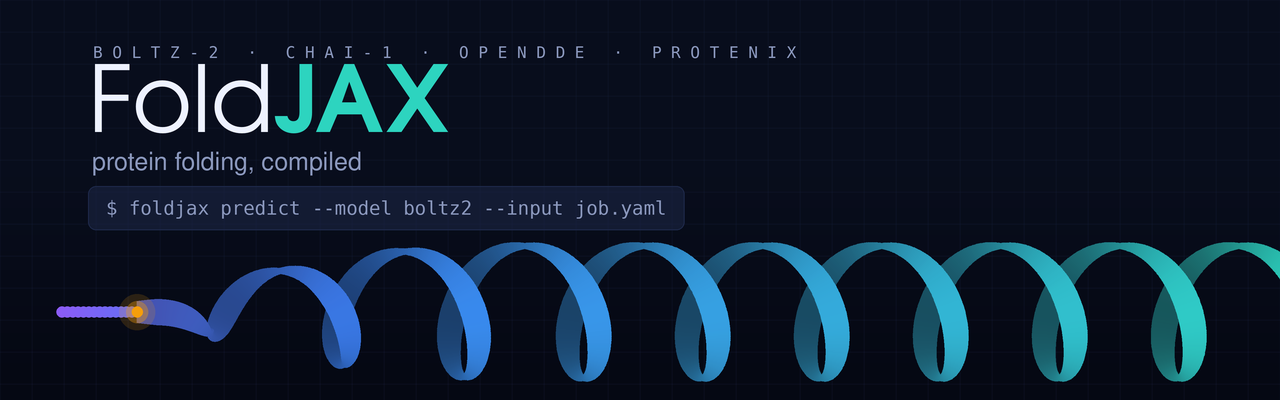
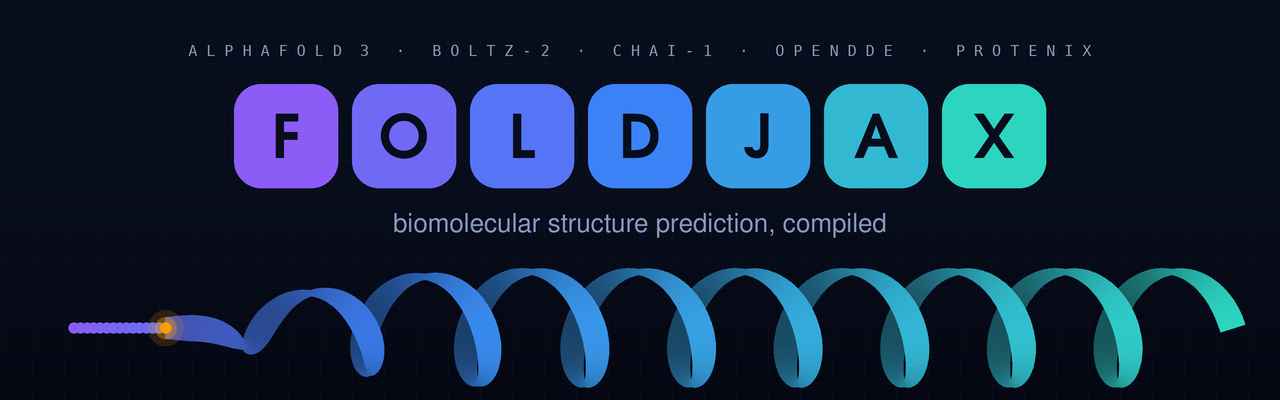
docs: set the name in JAX's own tile style, and bring the README up to date
The banner wordmark was type on a background. It is now one rounded tile per
letter, the way JAX writes its own name — this is a JAX project before it is
anything else — with the same violet/azure/teal ramp running across the tiles
that runs through the chain below them, so the mark and the graphic read as one
object. Letters are knocked out to the page colour rather than painted, which is
what makes a tile read as a tile, and each is centred on its own ink instead of
its advance width, because centring O and X on the box leaves them visibly off
axis from each other. The helix now finishes inside the frame; a turn clipped by
the right edge read as a rendering accident rather than the end of a coil.

README catches up with what the code does:

- Five models, not four. AlphaFold 3 takes the same job file as the rest; it is
  driven rather than carried because its parameters are not redistributable.
- The sampling table gains an alphafold3 column, and says why `--num-steps` is
  refused there rather than ignored: it has no such control.
- Chai can be given a pinned MSA now, so the claim that it cannot is gone, and
  the reason it matters is stated — an alignment that binds four models but not
  the fifth turns a model comparison into an MSA comparison.
- Test count and coverage are the measured ones, and say which environment they
  were measured in.

diff --git a/docs/make_banner.py b/docs/make_banner.py
@@ -1,10 +1,13 @@
 """Render the FoldJAX repository banner.
 
-The graphic is the product's one-line pitch: a flat residue chain on the left
-genuinely coils into an alpha helix on the right. The curve is computed, not
-drawn — radius ramps from zero, the turn angle accumulates only while folding,
-and the x advance compresses as the coil tightens, so the shape is a real helix
-seen from the side rather than a decorative squiggle.
+Two ideas, stacked. The wordmark sets each letter in its own rounded tile, the
+way JAX writes its own name — this project is a JAX project before it is
+anything else, and the tiles carry the gradient that runs through the graphic
+below them. Under it, a flat residue chain genuinely coils into an alpha helix:
+the curve is computed, not drawn — radius ramps from zero, the turn angle
+accumulates only while folding, and the x advance compresses as the coil
+tightens, so the shape is a real helix seen from the side rather than a
+decorative squiggle.
 
     uv run python docs/make_banner.py
 """
@@ -18,6 +21,16 @@ from PIL import Image, ImageDraw, ImageFont
 
 WIDTH, HEIGHT = 1280, 400
 SCALE = 3  # supersample, then downsample for clean edges
+
+# The wordmark: one rounded tile per letter, centred, with the gradient running
+# across them. Everything else in the layout is placed relative to this block.
+WORDMARK = "FOLDJAX"
+TILE_SIDE = 104
+TILE_GAP = 14
+TILE_TOP = 84
+# The chain runs as a band under the wordmark rather than through it.
+AXIS_Y = 328.0
+AXIS_RADIUS = 56.0
 
 FONTS = {
     "display": "/usr/share/fonts/opentype/urw-base35/URWGothic-Demi.otf",
@@ -93,9 +106,11 @@ def fold_curve(n=4200, turns=9.0, tilt=0.62):
     pitch drops below the coil width — that self-overlap is what reads as a
     three-dimensional coil.
     """
-    x0, x1 = 62.0, 1268.0
-    axis_y = 312.0
-    radius = 66.0
+    # The coil has to finish inside the frame: a turn clipped by the right edge
+    # reads as a rendering accident rather than the end of a helix.
+    x0, x1 = 74.0, 1198.0
+    axis_y = AXIS_Y
+    radius = AXIS_RADIUS
 
     folded = [smoothstep(0.26, 0.60, i / (n - 1)) for i in range(n)]
     total = sum(folded) or 1.0
@@ -109,7 +124,7 @@ def fold_curve(n=4200, turns=9.0, tilt=0.62):
         r = radius * f
         # The straight run spends x quickly; once the coil forms, x advances
         # only by the helix pitch, which is what tightens it.
-        advance = (i / (n - 1)) * 0.26 + (turned / total) * 0.74
+        advance = (i / (n - 1)) * 0.34 + (turned / total) * 0.66
         x = lerp(x0, x1, advance) + r * math.cos(theta) * tilt
         y = axis_y + r * math.sin(theta)
         points.append((x, y, math.cos(theta) * f, theta, t))
@@ -216,66 +231,68 @@ def draw_banner(theme: Theme) -> Image.Image:
     )
 
     # --- type ------------------------------------------------------------
-    display = ImageFont.truetype(FONTS["display"], int(s(92)))
-    book = ImageFont.truetype(FONTS["display_book"], int(s(92)))
-    tagline = ImageFont.truetype(FONTS["sans"], int(s(25)))
-    mono = ImageFont.truetype(FONTS["mono"], int(s(19)))
-    label = ImageFont.truetype(FONTS["mono"], int(s(16)))
+    tagline = ImageFont.truetype(FONTS["sans"], int(s(26)))
+    label = ImageFont.truetype(FONTS["mono"], int(s(15)))
+    centre = s(WIDTH / 2)
 
-    left, baseline = s(88), s(132)
-
-    # "Fold" in the book weight, "JAX" in demi: the fold is the subject, JAX is
-    # the substrate, and the weight change says so without a second colour.
-    fold_w = draw.textlength("Fold", font=book)
-    draw.text((left, baseline), "Fold", font=book, fill=theme.paper, anchor="ls")
+    # An eyebrow naming what actually runs, in the vernacular of the field
+    # rather than the codebase.
     draw.text(
-        (left + fold_w, baseline),
-        "JAX",
-        font=display,
-        fill=theme.stops[2],
-        anchor="ls",
-    )
-
-    draw.text(
-        (left + s(4), baseline + s(38)),
-        "protein folding, compiled",
-        font=tagline,
-        fill=theme.muted,
-        anchor="ls",
-    )
-
-    # An eyebrow that says what the thing actually is, in the vernacular of the
-    # field rather than the codebase.
-    draw.text(
-        (left + s(5), s(58)),
-        "B O L T Z - 2   ·   C H A I - 1   ·   O P E N D D E   ·   P R O T E N I X",
+        (centre, s(56)),
+        "A L P H A F O L D  3   ·   B O L T Z - 2   ·   C H A I - 1"
+        "   ·   O P E N D D E   ·   P R O T E N I X",
         font=label,
         fill=theme.muted,
-        anchor="ls",
+        anchor="ms",
     )
 
-    # The real command, because it is the shortest true description of the API.
-    command = "$ foldjax predict --model boltz2 --input job.yaml"
-    pad_x = s(18)
-    box_w = draw.textlength(command, font=mono) + pad_x * 2
-    box_h = s(44)
-    box_y = s(186)
-    draw.rounded_rectangle(
-        [left, box_y, left + box_w, box_y + box_h],
-        radius=s(8),
-        fill=(*theme.hairline, 130),
-        outline=(*theme.hairline, 255),
-        width=max(1, int(s(1))),
-    )
+    draw_wordmark(draw, theme, s)
+
     draw.text(
-        (left + pad_x, box_y + box_h / 2),
-        command,
-        font=mono,
+        (centre, s(TILE_TOP + TILE_SIDE + 44)),
+        "biomolecular structure prediction, compiled",
+        font=tagline,
         fill=theme.muted,
-        anchor="lm",
+        anchor="ms",
     )
 
     return image.resize((WIDTH, HEIGHT), Image.LANCZOS)
+
+
+def draw_wordmark(draw, theme, s) -> None:
+    """Set the name one letter per tile, the way JAX writes its own.
+
+    The tiles carry the same violet -> azure -> teal ramp as the chain below,
+    sampled at each letter's position, so the wordmark and the graphic are
+    visibly the same object. Letters are knocked out to the page colour rather
+    than painted, which is what makes a tile read as a tile.
+    """
+    count = len(WORDMARK)
+    span = count * TILE_SIDE + (count - 1) * TILE_GAP
+    left = (WIDTH - span) / 2
+    font = ImageFont.truetype(FONTS["display"], int(s(TILE_SIDE * 0.58)))
+
+    for index, character in enumerate(WORDMARK):
+        x0 = left + index * (TILE_SIDE + TILE_GAP)
+        fill = ramp(theme, index / (count - 1))
+        draw.rounded_rectangle(
+            [s(x0), s(TILE_TOP), s(x0 + TILE_SIDE), s(TILE_TOP + TILE_SIDE)],
+            radius=s(TILE_SIDE * 0.26),
+            fill=(*fill, 255),
+        )
+        # Centre on the glyph's own ink, not on its advance width: the letters
+        # have different side bearings and centring on the box makes O and X
+        # sit visibly off-axis from each other.
+        box = draw.textbbox((0, 0), character, font=font)
+        draw.text(
+            (
+                s(x0 + TILE_SIDE / 2) - (box[0] + box[2]) / 2,
+                s(TILE_TOP + TILE_SIDE / 2) - (box[1] + box[3]) / 2,
+            ),
+            character,
+            font=font,
+            fill=(*theme.ground, 255),
+        )
 
 
 def main() -> None:

diff --git a/README.md b/README.md
@@ -1,13 +1,13 @@
 <picture>
   <source media="(prefers-color-scheme: dark)" srcset="docs/banner-dark.png">
   <source media="(prefers-color-scheme: light)" srcset="docs/banner-light.png">
-  <img alt="FoldJAX — protein folding, compiled" src="docs/banner-dark.png">
+  <img alt="FoldJAX — biomolecular structure prediction, compiled" src="docs/banner-dark.png">
 </picture>
 
 # FoldJAX
 
-Biomolecular structure prediction in JAX. Four complete inference ports live
-inside the package, behind one interface:
+Biomolecular structure prediction in JAX. Five models behind one interface —
+four carried complete inside the package:
 
 | model | vendored at | licence | upstream |
 |---|---|---|---|
@@ -15,6 +15,10 @@ inside the package, behind one interface:
 | `chai` | `foldjax.models.chai` | Apache-2.0 | [chaidiscovery/chai-lab](https://github.com/chaidiscovery/chai-lab) |
 | `opendde` | `foldjax.models.opendde` | Apache-2.0 | [aurekaresearch/OpenDDE](https://huggingface.co/aurekaresearch/OpenDDE) |
 | `protenix` | `foldjax.models.protenix` | Apache-2.0 | [bytedance/Protenix](https://github.com/bytedance/Protenix) |
+
+— plus `alphafold3`, which FoldJAX drives rather than carries, because its
+parameters may not be redistributed. It takes the same job file as the rest
+once installed; see [docs/alphafold3.md](docs/alphafold3.md).
 
 Give it one job file and a model name. Weights, the input dialect, the output
 directory, and the XLA compile cache are all resolved for you.
@@ -75,10 +79,17 @@ translated into each backend's own names — Protenix and OpenDDE want
 `CCD_`-prefixed types and entity-indexed `covalent_bonds`, Boltz wants
 `{ccd, position}` and a `bond` constraint, AlphaFold 3 wants bare `ptmType`.
 
-**A field a backend cannot express is rejected, not dropped.** Boltz has no
-place for a separate `paired_msa`; Chai addresses ligands by SMILES only and
-takes a job-level MSA directory rather than per-chain paths. Silently discarding
-an MSA would change the science without changing the exit code.
+**A field a backend cannot express is rejected, not dropped.** Neither Boltz nor
+Chai has a place for a separate `paired_msa`, and Chai addresses ligands by
+SMILES only. Silently discarding an MSA would change the science without
+changing the exit code.
+
+`unpaired_msa` reaches every model, Chai included. Chai's own input is a FASTA
+with nowhere to put an alignment path, so FoldJAX converts the A3M into the
+`.aligned.pqt` form it reads and writes that beside the FASTA. That matters more
+than it sounds: otherwise a job that pins an alignment pins it everywhere except
+Chai, which quietly runs on a different one — and any comparison across models
+becomes a comparison of MSAs.
 
 ## Choosing what to run
 
@@ -95,14 +106,17 @@ uv run foldjax predict \
 `--num-samples`, `--num-steps`, and `--num-recycles` are model-neutral. Each
 backend calls them something different, and FoldJAX translates:
 
-| neutral | boltz2 | chai | opendde / protenix |
-|---|---|---|---|
-| `--num-samples` | `diffusion_samples` | `num_diffusion_samples` | `n_sample` |
-| `--num-steps` | `steps` | `num_diffusion_timesteps` | `n_step` |
-| `--num-recycles` | `recycling` | `num_trunk_recycles` | `n_cycle` |
+| neutral | alphafold3 | boltz2 | chai | opendde / protenix |
+|---|---|---|---|---|
+| `--num-samples` | `diffusion_samples` | `diffusion_samples` | `num_diffusion_samples` | `n_sample` |
+| `--num-steps` | — | `steps` | `num_diffusion_timesteps` | `n_step` |
+| `--num-recycles` | `recycles` | `recycling` | `num_trunk_recycles` | `n_cycle` |
 
 Setting both a neutral knob and its native name is an error rather than a silent
-preference. `--option KEY=VALUE` still passes anything native straight through.
+preference, and so is asking for a knob a backend does not have — AlphaFold 3
+exposes no diffusion-step count, so `--num-steps` is refused for it rather than
+quietly ignored. `--option KEY=VALUE` still passes anything native straight
+through.
 
 `foldjax plan` shows exactly what a request resolves to before anything loads:
 
@@ -223,7 +237,7 @@ kernel image is available" while its runner still reports success, so it was
 upgraded to `torch==2.12.0+cu130` to run at all.
 
 `--no-cache` turns it off for benchmark or ephemeral runs; `--cache-dir` moves
-the root. All four models also run on CPU, slowly.
+the root. Every model also runs on CPU, slowly.
 
 ## Python API
 
@@ -259,7 +273,7 @@ uv sync --extra cuda13 --group dev                       # predict with any mode
 uv sync --extra cuda13 --extra torch-bridge --group dev  # + convert checkpoints
 ```
 
-**The prediction environment is torch-free for all four models.** Boltz-2's
+**The prediction environment is torch-free for every model.** Boltz-2's
 featurizer is vendored from upstream Boltz and written against torch; it runs
 here on a NumPy array layer (`foldjax.models.boltz2.data._numpy_torch`) that
 reproduces the torch featurizer exactly. `--extra boltz-preprocess` installs
@@ -288,12 +302,13 @@ JAX_PLATFORMS=cpu uv run --extra cuda13 --group dev pytest -q
 uv run --extra cuda13 --group dev ruff check .
 ```
 
-869 tests pass in the torch-free environment, 84% coverage on the
-orchestration layer. Each vendored port
-brought its own suite to `tests/models/<name>/`, including the torch-parity
-gates it was built against; those are excluded from collection unless the extra
-they need is installed, and `tests/models/test_optional_suite_gate.py` keeps that
-exclusion list honest.
+1,020 tests pass with the optional extras installed, 85% coverage on the
+orchestration layer. Each vendored port brought its own suite to
+`tests/models/<name>/`, including the torch-parity gates it was built against.
+Those are excluded from collection unless the extra they need is installed — so
+the torch-free environment runs the subset that does not need one — and
+`tests/models/test_optional_suite_gate.py` keeps that exclusion list honest
+rather than letting a suite go quietly uncollected.
 
 ## Provenance
 
